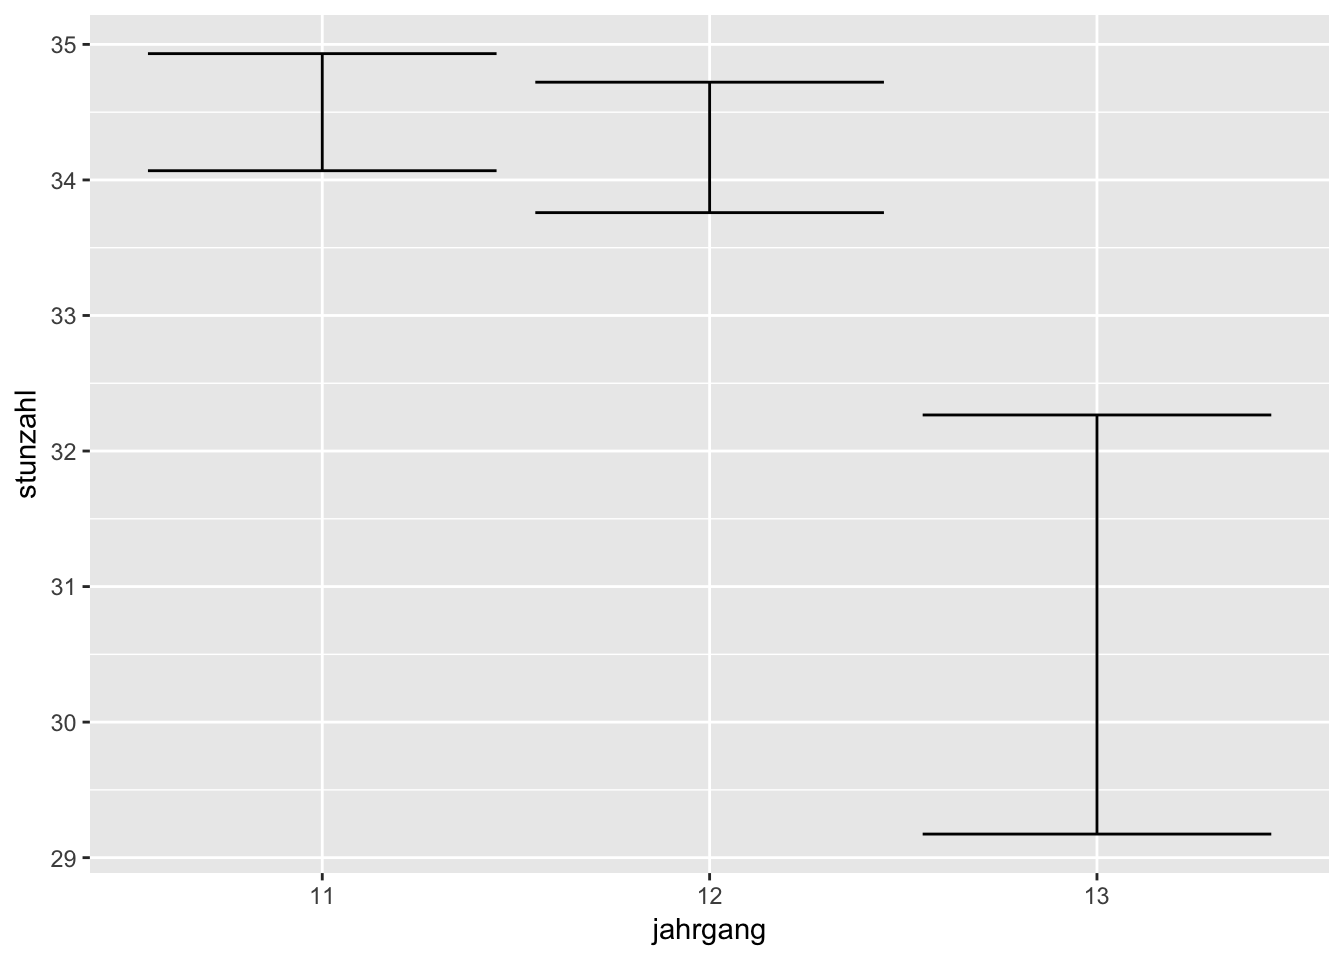
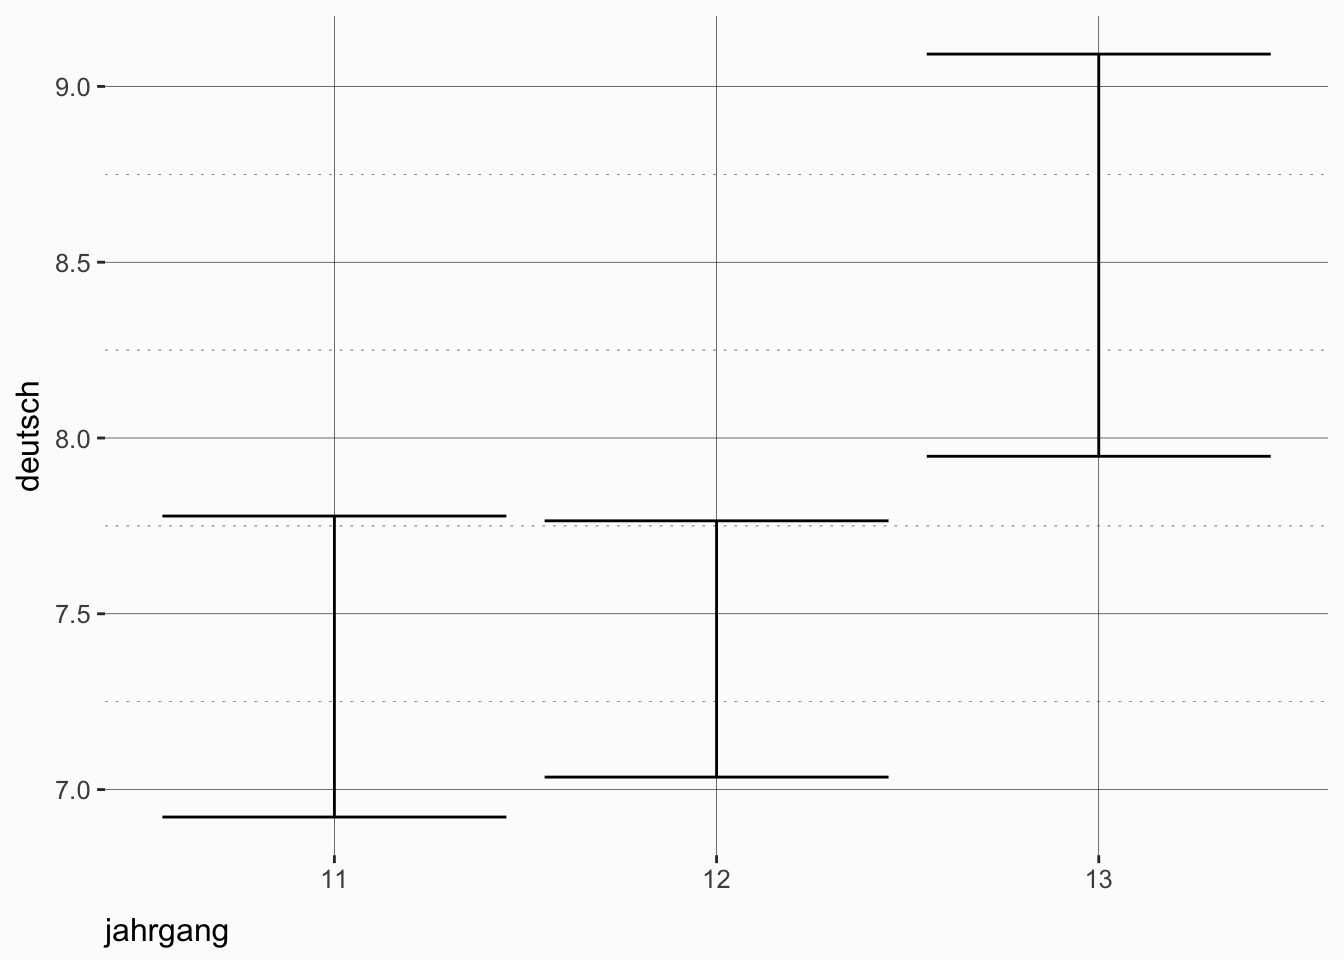
Re-pkgdown

diff --git a/docs/articles/overview.html b/docs/articles/overview.html
@@ -68,6 +68,7 @@
 <div class="contents">
 <p>This toolbox has been compiled to make the intro to R and statistics with R a little easier.<br>
 Besides that, it also contains some neat helper functions for tasks or problems one might run in frequently in our field.</p>
+<p>A neat overview of functions and stuff can be found <a href="http://tadaatoolbox.tadaa-data.de/">on tadaatoolbox.tadaa-data.de</a></p>
 <div id="high-level-functions" class="section level1">
 <h1 class="hasAnchor">
 <a href="#high-level-functions" class="anchor"></a>High Level Functions</h1>
@@ -129,13 +130,37 @@ Besides that, it also contains some neat helper functions for tasks or problems 
 </table>
 <p><br></p>
 <p><br></p>
+<p>Or, if you’re having a non-parametric day, try this:</p>
+<div class="sourceCode"><pre class="sourceCode r"><code class="sourceCode r"><span class="kw"><a href="../reference/tadaa_wilcoxon.html">tadaa_wilcoxon</a></span>(ngo, stunzahl, geschl, <span class="dt">print =</span> <span class="st">"markdown"</span>)</code></pre></div>
+<p>Table 2: <strong>Wilcoxon rank sum test with continuity correction</strong> with alternative hypothesis: <span class="math inline">\(M_1 \neq M_2\)</span></p>
+<table class="table">
+<thead><tr class="header">
+<th align="center">Difference</th>
+<th align="center">
+<span class="math inline">\(M_1\)</span> Männlich</th>
+<th align="center">
+<span class="math inline">\(M_2\)</span> Weiblich</th>
+<th align="center">W</th>
+<th align="center">p</th>
+</tr></thead>
+<tbody><tr class="odd">
+<td align="center">-1</td>
+<td align="center">33</td>
+<td align="center">34</td>
+<td align="center">7079.5</td>
+<td align="center">0.19</td>
+</tr></tbody>
+</table>
+<p><br></p>
+<p><br></p>
 </div>
 <div id="anova-tadaa_aov" class="section level2">
 <h2 class="hasAnchor">
 <a href="#anova-tadaa_aov" class="anchor"></a>ANOVA: <code>tadaa_aov</code>
 </h2>
-<div class="sourceCode"><pre class="sourceCode r"><code class="sourceCode r"><span class="kw"><a href="../reference/tadaa_aov.html">tadaa_aov</a></span>(stunzahl <span class="op">~</span><span class="st"> </span>geschl, <span class="dt">data =</span> ngo, <span class="dt">print =</span> <span class="st">"markdown"</span>)</code></pre></div>
-<p>Table 2: <strong>One-Way ANOVA</strong>: Using Type III Sum of Squares</p>
+<p>The function knows 3 types of sums of squares, adjustable via the <code>type</code> argument and defaulting to type 3 sums of squares. Additionally for type 3, the function also automatically checks the contrasts associated with the factor variables (only for unordered factors), and if <code>check_names = TRUE</code>, the contrasts are set to <code>contr.sum</code>.</p>
+<div class="sourceCode"><pre class="sourceCode r"><code class="sourceCode r"><span class="kw"><a href="../reference/tadaa_aov.html">tadaa_aov</a></span>(stunzahl <span class="op">~</span><span class="st"> </span>jahrgang <span class="op">*</span><span class="st"> </span>geschl, <span class="dt">data =</span> ngo, <span class="dt">print =</span> <span class="st">"markdown"</span>)</code></pre></div>
+<p>Table 3: <strong>Two-Way ANOVA</strong>: Using Type III Sum of Squares</p>
 <table class="table">
 <thead><tr class="header">
 <th align="center">Term</th>
@@ -144,7 +169,7 @@ Besides that, it also contains some neat helper functions for tasks or problems 
 <th align="center">MS</th>
 <th align="center">F</th>
 <th align="center">p</th>
-<th align="center"><span class="math inline">\(\eta^2\)</span></th>
+<th align="center"><span class="math inline">\(\eta_\text{part}^2\)</span></th>
 <th align="center">Cohen’s f</th>
 <th align="center">Power</th>
 </tr></thead>
@@ -152,19 +177,41 @@ Besides that, it also contains some neat helper functions for tasks or problems 
 <tr class="odd">
 <td align="center">geschl</td>
 <td align="center">1</td>
-<td align="center">0.14</td>
-<td align="center">0.14</td>
-<td align="center">0.01</td>
-<td align="center">0.91</td>
+<td align="center">7.29</td>
+<td align="center">7.29</td>
+<td align="center">0.74</td>
+<td align="center">0.39</td>
 <td align="center">0</td>
-<td align="center">0.01</td>
-<td align="center">0.05</td>
+<td align="center">0.06</td>
+<td align="center">0.14</td>
+</tr>
+<tr class="even">
+<td align="center">jahrgang</td>
+<td align="center">2</td>
+<td align="center">536.28</td>
+<td align="center">268.14</td>
+<td align="center">27.2</td>
+<td align="center">&lt; 0.001</td>
+<td align="center">0.18</td>
+<td align="center">0.47</td>
+<td align="center">1</td>
+</tr>
+<tr class="odd">
+<td align="center">jahrgang:geschl</td>
+<td align="center">2</td>
+<td align="center">96.06</td>
+<td align="center">48.03</td>
+<td align="center">4.87</td>
+<td align="center">&lt; 0.01</td>
+<td align="center">0.04</td>
+<td align="center">0.2</td>
+<td align="center">0.8</td>
 </tr>
 <tr class="even">
 <td align="center">Residuals</td>
-<td align="center">248</td>
-<td align="center">3037.46</td>
-<td align="center">12.25</td>
+<td align="center">244</td>
+<td align="center">2405.12</td>
+<td align="center">9.86</td>
 <td align="center"></td>
 <td align="center"></td>
 <td align="center"></td>
@@ -174,8 +221,8 @@ Besides that, it also contains some neat helper functions for tasks or problems 
 <tr class="odd">
 <td align="center">Total</td>
 <td align="center">249</td>
-<td align="center">3037.6</td>
-<td align="center">12.39</td>
+<td align="center">3044.75</td>
+<td align="center">333.32</td>
 <td align="center"></td>
 <td align="center"></td>
 <td align="center"></td>
@@ -186,6 +233,167 @@ Besides that, it also contains some neat helper functions for tasks or problems 
 </table>
 <p><br></p>
 <p><br></p>
+<p>Or, if you’re still unsure about the parametricity of your day:</p>
+<div class="sourceCode"><pre class="sourceCode r"><code class="sourceCode r"><span class="kw"><a href="../reference/tadaa_kruskal.html">tadaa_kruskal</a></span>(stunzahl <span class="op">~</span><span class="st"> </span>jahrgang, <span class="dt">data =</span> ngo, <span class="dt">print =</span> <span class="st">"markdown"</span>)</code></pre></div>
+<p>Table 4: <strong>Kruskal-Wallis Rank Sum Test</strong></p>
+<table class="table">
+<thead><tr class="header">
+<th align="center"><span class="math inline">\(\chi^2\)</span></th>
+<th align="center">df</th>
+<th align="center">p</th>
+</tr></thead>
+<tbody><tr class="odd">
+<td align="center">20.89</td>
+<td align="center">2</td>
+<td align="center">&lt; 0.001</td>
+</tr></tbody>
+</table>
+<p><br></p>
+<p><br></p>
+</div>
+<div id="pairwise-tests" class="section level2">
+<h2 class="hasAnchor">
+<a href="#pairwise-tests" class="anchor"></a>Pairwise tests</h2>
+<div id="pairwise-t-tests" class="section level3">
+<h3 class="hasAnchor">
+<a href="#pairwise-t-tests" class="anchor"></a>Pairwise t-tests</h3>
+<p>Since we found <code>stats::pairwise.t.test</code> insuffucient in cases of two-way ANOVAs, we wrapped the function to also enable the testing of interactions. The adjusted p-values are only adjusted within each term, so it is like performing <code>stats::pairwise.t.test</code> 3 times with each factor and additionally the interaction of the two factors (which is what the function does internally).</p>
+<p>As a bonus, this functions knows the two additional p-adjustment methods <code>sidak</code> and <code>sidakSD</code> for the Sidak adjustement and the Sidak-like step-down procedure respectively.</p>
+<div class="sourceCode"><pre class="sourceCode r"><code class="sourceCode r"><span class="kw"><a href="../reference/tadaa_pairwise_t.html">tadaa_pairwise_t</a></span>(ngo, <span class="dt">response =</span> deutsch, <span class="dt">group1 =</span> jahrgang, <span class="dt">p.adjust =</span> <span class="st">"bonf"</span>, <span class="dt">print =</span> <span class="st">"markdown"</span>)</code></pre></div>
+<table class="table">
+<thead><tr class="header">
+<th align="left">term</th>
+<th align="left">comparison</th>
+<th align="right">p (adj.)</th>
+</tr></thead>
+<tbody>
+<tr class="odd">
+<td align="left">jahrgang</td>
+<td align="left">12 - 11</td>
+<td align="right">&gt; 0.99</td>
+</tr>
+<tr class="even">
+<td align="left">jahrgang</td>
+<td align="left">13 - 11</td>
+<td align="right">&lt; 0.01</td>
+</tr>
+<tr class="odd">
+<td align="left">jahrgang</td>
+<td align="left">13 - 12</td>
+<td align="right">&lt; 0.01</td>
+</tr>
+</tbody>
+</table>
+<p><br></p>
+<p><br></p>
+<div class="sourceCode"><pre class="sourceCode r"><code class="sourceCode r"><span class="kw"><a href="../reference/tadaa_pairwise_t.html">tadaa_pairwise_t</a></span>(ngo, <span class="dt">response =</span> deutsch, <span class="dt">group1 =</span> jahrgang, <span class="dt">group2 =</span> geschl, <span class="dt">p.adjust =</span> <span class="st">"sidakSD"</span>, <span class="dt">print =</span> <span class="st">"markdown"</span>)</code></pre></div>
+<table class="table">
+<thead><tr class="header">
+<th align="left">term</th>
+<th align="left">comparison</th>
+<th align="right">p (adj.)</th>
+</tr></thead>
+<tbody>
+<tr class="odd">
+<td align="left">jahrgang</td>
+<td align="left">12 - 11</td>
+<td align="right">0.86</td>
+</tr>
+<tr class="even">
+<td align="left">jahrgang</td>
+<td align="left">13 - 11</td>
+<td align="right">&lt; 0.01</td>
+</tr>
+<tr class="odd">
+<td align="left">jahrgang</td>
+<td align="left">13 - 12</td>
+<td align="right">&lt; 0.01</td>
+</tr>
+<tr class="even">
+<td align="left">geschl</td>
+<td align="left">Weiblich - Männlich</td>
+<td align="right">&lt; 0.001</td>
+</tr>
+<tr class="odd">
+<td align="left">jahrgang:geschl</td>
+<td align="left">12 &amp; Männlich - 11 &amp; Männlich</td>
+<td align="right">0.29</td>
+</tr>
+<tr class="even">
+<td align="left">jahrgang:geschl</td>
+<td align="left">13 &amp; Männlich - 11 &amp; Männlich</td>
+<td align="right">0.12</td>
+</tr>
+<tr class="odd">
+<td align="left">jahrgang:geschl</td>
+<td align="left">11 &amp; Weiblich - 11 &amp; Männlich</td>
+<td align="right">&lt; 0.001</td>
+</tr>
+<tr class="even">
+<td align="left">jahrgang:geschl</td>
+<td align="left">12 &amp; Weiblich - 11 &amp; Männlich</td>
+<td align="right">0.12</td>
+</tr>
+<tr class="odd">
+<td align="left">jahrgang:geschl</td>
+<td align="left">13 &amp; Weiblich - 11 &amp; Männlich</td>
+<td align="right">&lt; 0.001</td>
+</tr>
+<tr class="even">
+<td align="left">jahrgang:geschl</td>
+<td align="left">13 &amp; Männlich - 12 &amp; Männlich</td>
+<td align="right">0.84</td>
+</tr>
+<tr class="odd">
+<td align="left">jahrgang:geschl</td>
+<td align="left">11 &amp; Weiblich - 12 &amp; Männlich</td>
+<td align="right">0.19</td>
+</tr>
+<tr class="even">
+<td align="left">jahrgang:geschl</td>
+<td align="left">12 &amp; Weiblich - 12 &amp; Männlich</td>
+<td align="right">0.84</td>
+</tr>
+<tr class="odd">
+<td align="left">jahrgang:geschl</td>
+<td align="left">13 &amp; Weiblich - 12 &amp; Männlich</td>
+<td align="right">&lt; 0.001</td>
+</tr>
+<tr class="even">
+<td align="left">jahrgang:geschl</td>
+<td align="left">11 &amp; Weiblich - 13 &amp; Männlich</td>
+<td align="right">0.84</td>
+</tr>
+<tr class="odd">
+<td align="left">jahrgang:geschl</td>
+<td align="left">12 &amp; Weiblich - 13 &amp; Männlich</td>
+<td align="right">0.84</td>
+</tr>
+<tr class="even">
+<td align="left">jahrgang:geschl</td>
+<td align="left">13 &amp; Weiblich - 13 &amp; Männlich</td>
+<td align="right">&lt; 0.05</td>
+</tr>
+<tr class="odd">
+<td align="left">jahrgang:geschl</td>
+<td align="left">12 &amp; Weiblich - 11 &amp; Weiblich</td>
+<td align="right">0.4</td>
+</tr>
+<tr class="even">
+<td align="left">jahrgang:geschl</td>
+<td align="left">13 &amp; Weiblich - 11 &amp; Weiblich</td>
+<td align="right">0.12</td>
+</tr>
+<tr class="odd">
+<td align="left">jahrgang:geschl</td>
+<td align="left">13 &amp; Weiblich - 12 &amp; Weiblich</td>
+<td align="right">&lt; 0.01</td>
+</tr>
+</tbody>
+</table>
+<p><br></p>
+<p><br></p>
+</div>
 </div>
 <div id="tests-for-normality-tadaa_normtest" class="section level2">
 <h2 class="hasAnchor">
@@ -272,11 +480,7 @@ cols &lt;-<span class="st"> </span>ngo[<span class="kw">c</span>(<span class="st
 <li>
 <code>interval_labels</code>: To produce labels for clusters created by <code>cut</code>.</li>
 <li>
-<code>tadaa_likertize</code>: Reduce a range of values to <code>n</code> classes (methodologically wonky).</li>
-<li>
-<code>delet_na</code>: Customizable way to drop <code>NA</code> observations from a dataset.</li>
-<li>
-<code>drop_labels</code>: If you subset a <code>labelled</code> dataset, you might end up with labels that have no values with them. This function will drop the now unused <code>labels</code>.</li>
+<code>delete_na</code>: Customizable way to drop <code>NA</code> observations from a dataset.</li>
 <li>
 <code>pval_string</code>: Shamalessly adapted from <code>pixiedust::pvalString</code>, this will format a p-value as a character string in common <code>p &lt; 0.001</code> notation and so on. The difference from the <code>pixiedust</code> version is that this function will also print <code>p &lt; 0.05</code>.</li>
 </ul>
@@ -299,9 +503,14 @@ cols &lt;-<span class="st"> </span>ngo[<span class="kw">c</span>(<span class="st
 </ul>
 <div class="sourceCode"><pre class="sourceCode r"><code class="sourceCode r"><span class="kw">library</span>(ggplot2)
 
-<span class="kw">ggplot</span>(<span class="dt">data =</span> ngo, <span class="kw">aes</span>(<span class="dt">x =</span> jahrgang, <span class="dt">y =</span> stunzahl)) <span class="op">+</span>
-<span class="st">  </span><span class="kw">stat_summary</span>(<span class="dt">fun.data =</span> <span class="st">"mean_ci_t"</span>, <span class="dt">geom =</span> <span class="st">"errorbar"</span>)</code></pre></div>
+<span class="kw">ggplot</span>(<span class="dt">data =</span> ngo, <span class="kw">aes</span>(<span class="dt">x =</span> jahrgang, <span class="dt">y =</span> deutsch)) <span class="op">+</span>
+<span class="st">  </span><span class="kw">stat_summary</span>(<span class="dt">fun.data =</span> <span class="st">"mean_ci_t"</span>, <span class="dt">geom =</span> <span class="st">"errorbar"</span>) <span class="op">+</span>
+<span class="st">  </span><span class="kw"><a href="../reference/theme_readthedown.html">theme_tadaa</a></span>()</code></pre></div>
 <p><img src="overview_files/figure-html/confint-1.png" width="672"></p>
+<p>As a convenience, we added <code>tadaa_mean_ci</code> to quickly plot means with errorbars to get a quick glance at your data.</p>
+<div class="sourceCode"><pre class="sourceCode r"><code class="sourceCode r"><span class="kw"><a href="../reference/tadaa_mean_ci.html">tadaa_mean_ci</a></span>(<span class="dt">data =</span> ngo, <span class="dt">response =</span> deutsch, <span class="dt">group =</span> jahrgang) <span class="op">+</span>
+<span class="st">  </span><span class="kw"><a href="../reference/theme_readthedown.html">theme_tadaa</a></span>()</code></pre></div>
+<p><img src="overview_files/figure-html/mean_ci_plot-1.png" width="672"></p>
 <div id="prebuilt-plotting-functions" class="section level3">
 <h3 class="hasAnchor">
 <a href="#prebuilt-plotting-functions" class="anchor"></a>Prebuilt plotting functions</h3>
@@ -359,6 +568,7 @@ ngo &lt;-<span class="st"> </span>dplyr<span class="op">::</span><span class="kw
 <a href="#high-level-functions">High Level Functions</a><ul class="nav nav-pills nav-stacked">
 <li><a href="#t-tests-tadaa_t.test">t-Tests: <code>tadaa_t.test</code></a></li>
       <li><a href="#anova-tadaa_aov">ANOVA: <code>tadaa_aov</code></a></li>
+      <li><a href="#pairwise-tests">Pairwise tests</a></li>
       <li><a href="#tests-for-normality-tadaa_normtest">Tests for normality: <code>tadaa_normtest</code></a></li>
       </ul>
 </li>

diff --git a/docs/reference/tadaa_int.html b/docs/reference/tadaa_int.html
@@ -151,7 +151,7 @@ If <code>print = TRUE</code>: Printed: The one or two ggplot2 objects, depending
     <h2 class="hasAnchor" id="examples"><a class="anchor" href="#examples"></a>Examples</h2>
     <pre class="examples"><div class='input'><span class='fu'>tadaa_int</span>(<span class='no'>ngo</span>, <span class='no'>stunzahl</span>, <span class='no'>jahrgang</span>, <span class='no'>geschl</span>)</div><img src='tadaa_int-2.png' alt='' width='540' height='400' /><img src='tadaa_int-3.png' alt='' width='540' height='400' /><div class='input'>
 <span class='co'># As grid</span>
-<span class='fu'>tadaa_int</span>(<span class='no'>ngo</span>, <span class='no'>stunzahl</span>, <span class='no'>jahrgang</span>, <span class='no'>geschl</span>, <span class='kw'>grid</span> <span class='kw'>=</span> <span class='fl'>TRUE</span>)</div></pre>
+<span class='fu'>tadaa_int</span>(<span class='no'>ngo</span>, <span class='no'>stunzahl</span>, <span class='no'>jahrgang</span>, <span class='no'>geschl</span>, <span class='kw'>grid</span> <span class='kw'>=</span> <span class='fl'>TRUE</span>)</div><img src='tadaa_int-5.png' alt='' width='540' height='400' /></pre>
   </div>
   <div class="col-md-3 hidden-xs hidden-sm" id="sidebar">
     <h2>Contents</h2>

diff --git a/docs/reference/effect_size_t.html b/docs/reference/effect_size_t.html
@@ -126,14 +126,15 @@ t-test, default is <code>FALSE</code>.</p></td>
     <h2 class="hasAnchor" id="details"><a class="anchor" href="#details"></a>Details</h2>
 
     <p>The effect size here is Cohen's d as calculated by
-\(d = \frac{m_{diff}}{D_p}\), where \(m_{diff} = \bar{x_1} - \bar{x_1}\) and
+\(d = \frac{m_{diff}}{S_p}\), where \(m_{diff} = \bar{x}_1 - \bar{x}_2\) and
 \(S_p =
   \sqrt{
     \frac{n_1 - 1 \cdot {s_{x_1}}^2 + n_2 - 1 \cdot {s_{x_2}}^2}
     {n_1 + n_2 - 2}
   }
 \).</p>
-<p>For <code>paired = TRUE</code>, \(S_p\) is substituted by \(S_D = S_{x-y}\) via <code>sd(x - y)</code>.</p>
+<p>For <code>paired = TRUE</code>, \(S_p\) is substituted by \(S_D = S_{x_1 - x_2}\)
+via <code>sd(x1 - x2)</code>.</p>
     
 
     <h2 class="hasAnchor" id="examples"><a class="anchor" href="#examples"></a>Examples</h2>
